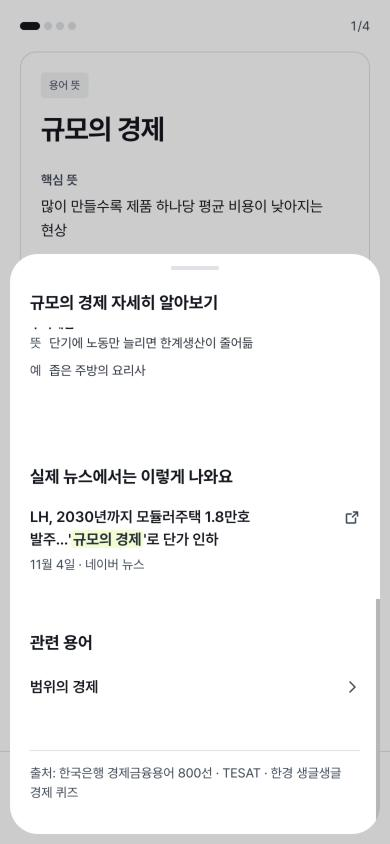
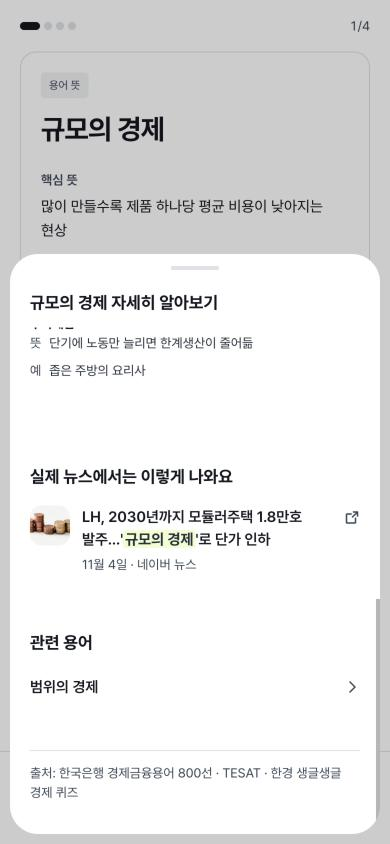
주제 사진을 40px 썸네일로 줄여 홈 카드를 한 줄로, 단어 카드 뉴스에도 주제 썸네일. 사진 없는 주제는 회색+첫 글자

Changed region(s): [[0.0615, 0.5853, 0.7692, 0.6777]]

diff --git a/src/pages/CourseScreen.tsx b/src/pages/CourseScreen.tsx
@@ -1,6 +1,7 @@
 import React, { useMemo, useRef, useLayoutEffect, useEffect, useState } from 'react';
 import { BookOpenText, Check, ListChecks, LockKeyhole, RotateCcw } from '../components/ui/OtterIcons';
 import { List, ListRow } from '@toss/tds-mobile';
+import { TopicThumb } from '../components/TopicThumb';
 import { ChevronRight } from '../components/ui/ControlIcons';
 import { useLocation, useNavigate, useSearchParams } from 'react-router-dom';
 import { useAppContext } from '../context/AppContext';
@@ -19,14 +20,6 @@ import { buildPath, type PathNode } from '../lib/path';
 
 const SEEN_KEY = 'path_seen_done';   // 코스 화면에서 마지막으로 본 완료 노드들(도장 연출용)
 const LEVEL_TABS = ['전체', '기초', '중급', '고급', '심화'];
-// 홈 주제 카드 사진(Unsplash 무료 라이선스, 400x260으로 줄여 public/topics에 둠). 출처는 public/topics/SOURCES.md
-const TOPIC_IMAGES: Record<string, string> = {
-  '가계·소비·부동산': 'household', '경기·성장·국민소득': 'growth', '경제 기초 개념': 'basics', '고용·노동·분배': 'labor',
-  '국제기구·세계경제': 'world', '국제수지·무역·통상': 'trade', '금리·통화정책·중앙은행': 'monetary', '금융안정·건전성 규제': 'stability',
-  '기업·산업·회계': 'industry', '물가·인플레이션': 'prices', '외환·환율': 'fx', '은행·금융제도': 'banking',
-  '재정·조세·사회보장': 'fiscal', '주식·채권시장': 'markets', '지급결제·화폐': 'payments', '파생상품·펀드·투자': 'investing',
-  '핀테크·디지털·신산업': 'fintech',
-};
 
 // 노드를 누르면 브랜드색 원이 화면 가득 퍼지고 로고를 보여준 뒤 다음 화면으로 넘어간다.
 // 오버레이를 body에 붙여 화면 전환 뒤에도 남게 한다. 동작 줄이기·WAAPI 미지원이면 바로 넘어간다.
@@ -401,9 +394,11 @@ const CourseScreen = () => {
           {topics.filter(topic => !topic.locked).slice(0, 6).map(topic => (
             <button key={`${topic.level}-${topic.category}`} type="button" role="listitem" className="course-home-rail-card"
               onClick={() => navigate(`/course?topic=${topic.index}`)} aria-label={`${topic.level} ${topic.category} 주제 열기, ${topicSteps(topic).done}/${topicSteps(topic).total}단계 완료`}>
-              {TOPIC_IMAGES[topic.category] && <img className="course-home-rail-image" src={`/topics/${TOPIC_IMAGES[topic.category]}.jpg`} alt="" aria-hidden="true" width={400} height={260} loading="lazy" decoding="async" />}
-              <span className="course-home-rail-title">{topic.category}</span>
-              <span className="course-home-rail-meta">{topic.level} · {topicSteps(topic).done}/{topicSteps(topic).total}단계</span>
+              <TopicThumb category={topic.category} />
+              <span className="course-home-rail-text">
+                <span className="course-home-rail-title">{topic.category}</span>
+                <span className="course-home-rail-meta">{topic.level} · {topicSteps(topic).done}/{topicSteps(topic).total}단계</span>
+              </span>
             </button>
           ))}
         </div>

diff --git a/src/pages/WordCardScreen.tsx b/src/pages/WordCardScreen.tsx
@@ -6,6 +6,8 @@ import { BottomSheet } from '@toss/tds-mobile';
 import { showModal } from '../components/AlertModal';
 import type { Word } from '../types';
 import { useAppContext } from '../context/AppContext';
+import { topicOfWord } from '../lib/topicImages';
+import { TopicThumb } from '../components/TopicThumb';
 import { logClick } from '../lib/analytics';
 import { openExternalUrl } from '../lib/external';
 import { claimPromotion } from '../lib/promotion';
@@ -90,6 +92,9 @@ const WordCard = ({
   // 'meaning'은 레슨 1페이지(정의+예시), 'extras'는 자세히 보기 시트(그래프·뉴스·관련 용어)
   section?: 'meaning' | 'extras';
 }) => {
+  // 기사 원문 사진은 언론사 저작물이라 쓰지 않고, 용어가 속한 주제의 Unsplash 사진을 둔다
+  const { courses } = useAppContext();
+  const newsTopic = topicOfWord(word.id, courses);
   if (section === 'meaning') return (
     <div className="flex flex-col gap-3 px-5 pb-6">
       {/* 출처는 자세히 보기 시트 맨 아래에만 둔다 */}
@@ -133,6 +138,7 @@ const WordCard = ({
           onClick={() => { logClick('news_link_click', { word: word.word }); openExternalUrl(item.link); }}
           className="flex items-start gap-3 py-3 border-b border-[var(--color-line)] last:border-0 active:opacity-60 text-left"
         >
+          {newsTopic && <TopicThumb category={newsTopic} />}
           <div className="min-w-0 flex-1">
             <p className="text-sm font-semibold text-[var(--color-ink)] break-keep leading-normal line-clamp-2">
               <Highlight text={stripHtml(item.title)} keyword={keyword} />
@@ -142,7 +148,6 @@ const WordCard = ({
               {new Date(item.pubDate).toLocaleDateString('ko-KR', { month: 'short', day: 'numeric' })} · 네이버 뉴스
             </p>
           </div>
-          {/* 기사 사진은 언론사 저작물이라 쓰지 않는다 */}
           <ExternalLink size={16} className="text-[var(--color-ink-3)] shrink-0 mt-1" />
         </button>
       ))}

diff --git a/src/index.css b/src/index.css
@@ -1213,6 +1213,10 @@ button.review-aux-button:disabled { color: var(--color-ink-3); }
 .quest-screen, .league-screen, .my-page-screen { background: var(--color-card); }
 .my-page-sections .my-page-panel.my-page-menu { padding-inline: 0; }
 .my-page-menu button > div { padding-inline: var(--space-5); }
-/* 홈 주제 카드: 위에 주제 사진, 아래 제목·단계 */
-button.course-home-rail-card { width: 148px; }
-.course-home-rail-image { width: 100%; height: auto; aspect-ratio: 400 / 260; margin-bottom: var(--space-1); border-radius: var(--shape-inset); object-fit: cover; background: var(--color-surface); }
+/* 홈 주제 카드: 작은 주제 썸네일 + 제목·단계를 한 줄로. 주버튼보다 가볍게 */
+button.course-home-rail-card { width: 168px; flex-direction: row; align-items: center; gap: var(--space-2); }
+.course-home-rail-text { display: flex; min-width: 0; flex-direction: column; gap: 2px; }
+.course-home-rail-card .course-home-rail-title { font-size: var(--font-size-label); }
+/* 주제 썸네일(홈 카드·뉴스). 사진이 없으면 회색 바탕 + 첫 글자 */
+.topic-thumb { flex-shrink: 0; border-radius: var(--shape-inset); object-fit: cover; background: var(--color-surface); }
+.topic-thumb-fallback { display: inline-flex; align-items: center; justify-content: center; color: var(--color-ink-3); font-size: var(--font-size-label); font-weight: var(--font-weight-bold); }

diff --git a/src/lib/topicImages.ts b/src/lib/topicImages.ts
@@ -1,0 +1,12 @@
+// 주제 사진(홈 주제 카드·단어 카드 뉴스). Unsplash 무료 라이선스 사진을 400x260으로 줄여 public/topics에 둠. 출처는 public/topics/SOURCES.md
+export const TOPIC_IMAGES: Record<string, string> = {
+  '가계·소비·부동산': 'household', '경기·성장·국민소득': 'growth', '경제 기초 개념': 'basics', '고용·노동·분배': 'labor',
+  '국제기구·세계경제': 'world', '국제수지·무역·통상': 'trade', '금리·통화정책·중앙은행': 'monetary', '금융안정·건전성 규제': 'stability',
+  '기업·산업·회계': 'industry', '물가·인플레이션': 'prices', '외환·환율': 'fx', '은행·금융제도': 'banking',
+  '재정·조세·사회보장': 'fiscal', '주식·채권시장': 'markets', '지급결제·화폐': 'payments', '파생상품·펀드·투자': 'investing',
+  '핀테크·디지털·신산업': 'fintech',
+};
+
+// 용어가 속한 코스의 주제 이름. 못 찾으면 undefined
+export const topicOfWord = (wordId: number, courses: { category: string; words: { id: number }[] }[]) =>
+  courses.find(course => course.words.some(w => w.id === wordId))?.category;

diff --git a/src/components/TopicThumb.tsx b/src/components/TopicThumb.tsx
@@ -1,0 +1,9 @@
+import { TOPIC_IMAGES } from '../lib/topicImages';
+
+// 주제 썸네일: 작은 정사각 사진. 사진이 없는 주제는 회색 바탕에 주제 첫 글자(대체 규칙)
+export const TopicThumb = ({ category, size = 40 }: { category: string; size?: number }) => {
+  const name = TOPIC_IMAGES[category];
+  return name
+    ? <img className="topic-thumb" src={`/topics/${name}.jpg`} alt="" aria-hidden="true" width={size} height={size} loading="lazy" decoding="async" style={{ width: size, height: size }} />
+    : <span className="topic-thumb topic-thumb-fallback" aria-hidden="true" style={{ width: size, height: size }}>{Array.from(category)[0]}</span>;
+};

diff --git a/DESIGN.md b/DESIGN.md
@@ -72,6 +72,12 @@
 - 라임(`#C6F432`)은 흰 바탕 대비가 낮아 글자·아이콘·진행 막대·1px 테두리에 쓰지 않는다.
 - 정답·오답은 초록·빨강 대신 중립색과 ✓/✕·문구로 구분한다. 빨강은 입력·네트워크 오류에만 쓴다.
 
+**주제 썸네일(2026-11-04)**
+
+- 홈 "주제 둘러보기" 카드와 단어 카드 뉴스에 40px 정사각 주제 사진을 둔다(`TopicThumb`). 사진은 Unsplash 무료 라이선스, 원본은 `public/topics/SOURCES.md`.
+- 사진은 주제(카테고리) 단위 17장이다. 사진이 없는 주제는 회색 바탕에 주제 첫 글자를 둔다. 새 주제를 만들면 같은 톤(실사, 사람 얼굴·로고 없음)으로 한 장 추가한다.
+- 카드는 주버튼보다 가볍게 한 줄(썸네일 + 제목·단계)로 둔다. 기사 원문 사진은 언론사 저작물이라 쓰지 않는다.
+
 ### 2-3. 다크 모드
 
 **쓰지 않는다.** 앱인토스 미니앱은 라이트 모드만 지원해(검수 체크리스트 "미니앱 테마는 라이트 모드로 구현돼 있어요") 테마 선택을 없애고 라이트로 고정했다(`main.tsx`). 다크 토큰·`.dark` 스타일·`-dark` 수달 파일은 2026-11-04에 지웠다. 다크 모드가 지원되면 git 이력에서 되살린다.
